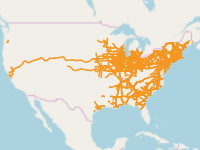
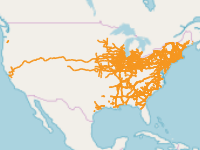
change thumbnail image comparison test to account for OSM style change

diff --git a/mapstory/apps/thumbnails/test_storylayer_thumbnail.py b/mapstory/apps/thumbnails/test_storylayer_thumbnail.py
@@ -100,9 +100,9 @@ class TestAnimatedStoryLayerThumbnailTask(GeoGigUploaderBase, TestCase):
         frames[2].paste(gif_image)
 
         # due to pallet differences, we allow a little bit of difference
-        self.assertTrue(compare_images(orig_images[0], frames[0], 12) < 0.05)
-        self.assertTrue(compare_images(orig_images[1], frames[1], 12) < 0.05)
-        self.assertTrue(compare_images(orig_images[2], frames[2], 12) < 0.05)
+        self.assertTrue(compare_images(orig_images[0], frames[0], 14) < 0.05)
+        self.assertTrue(compare_images(orig_images[1], frames[1], 14) < 0.05)
+        self.assertTrue(compare_images(orig_images[2], frames[2], 14) < 0.05)
 
     # note - while this is running, there is likely a thumbnail generation task occuring in the background
     # (kicked off by the importer)
